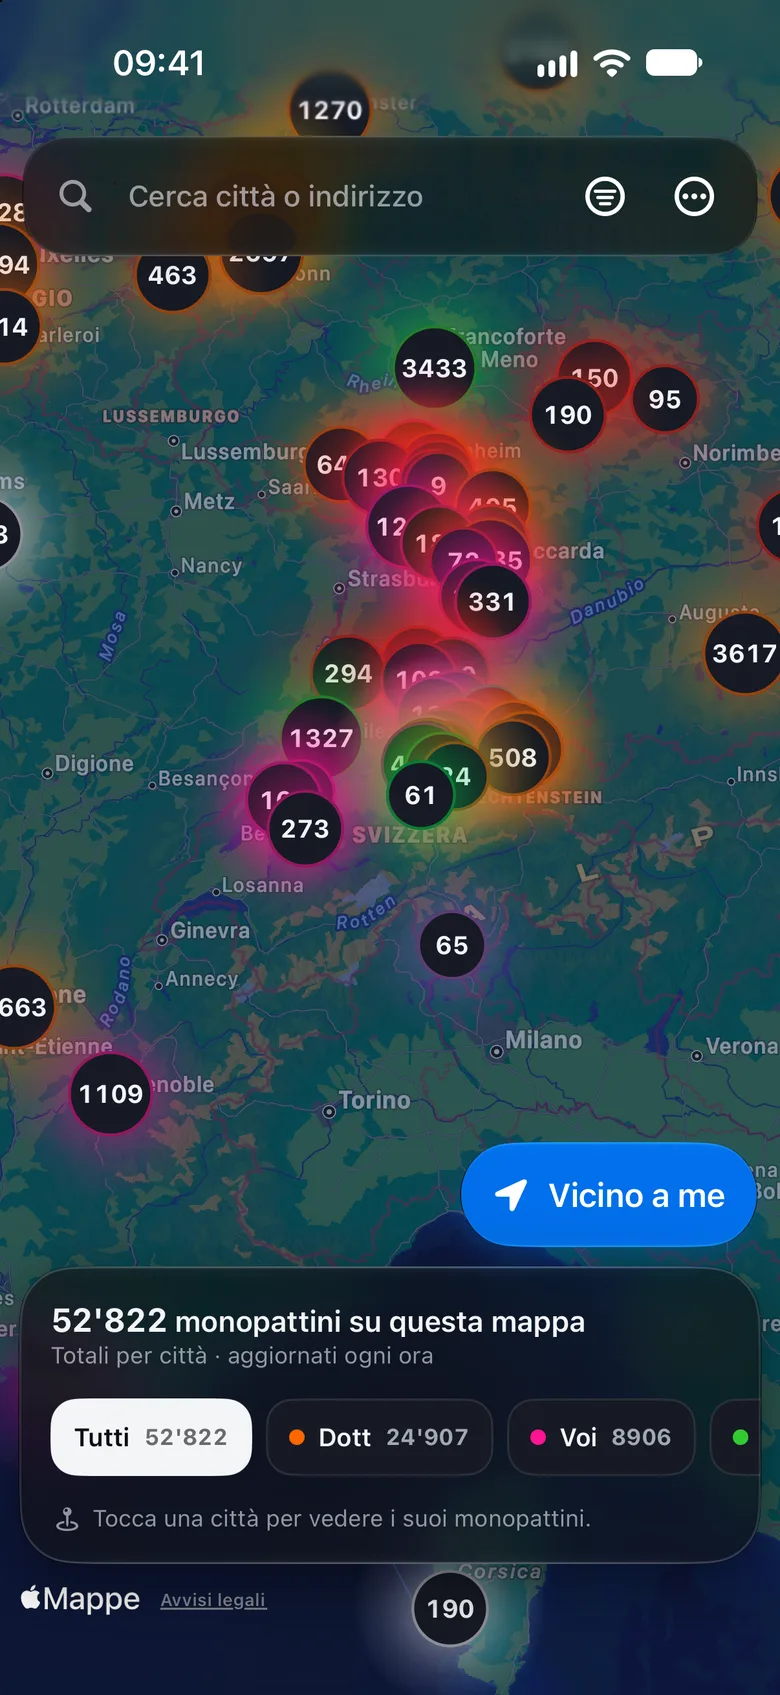
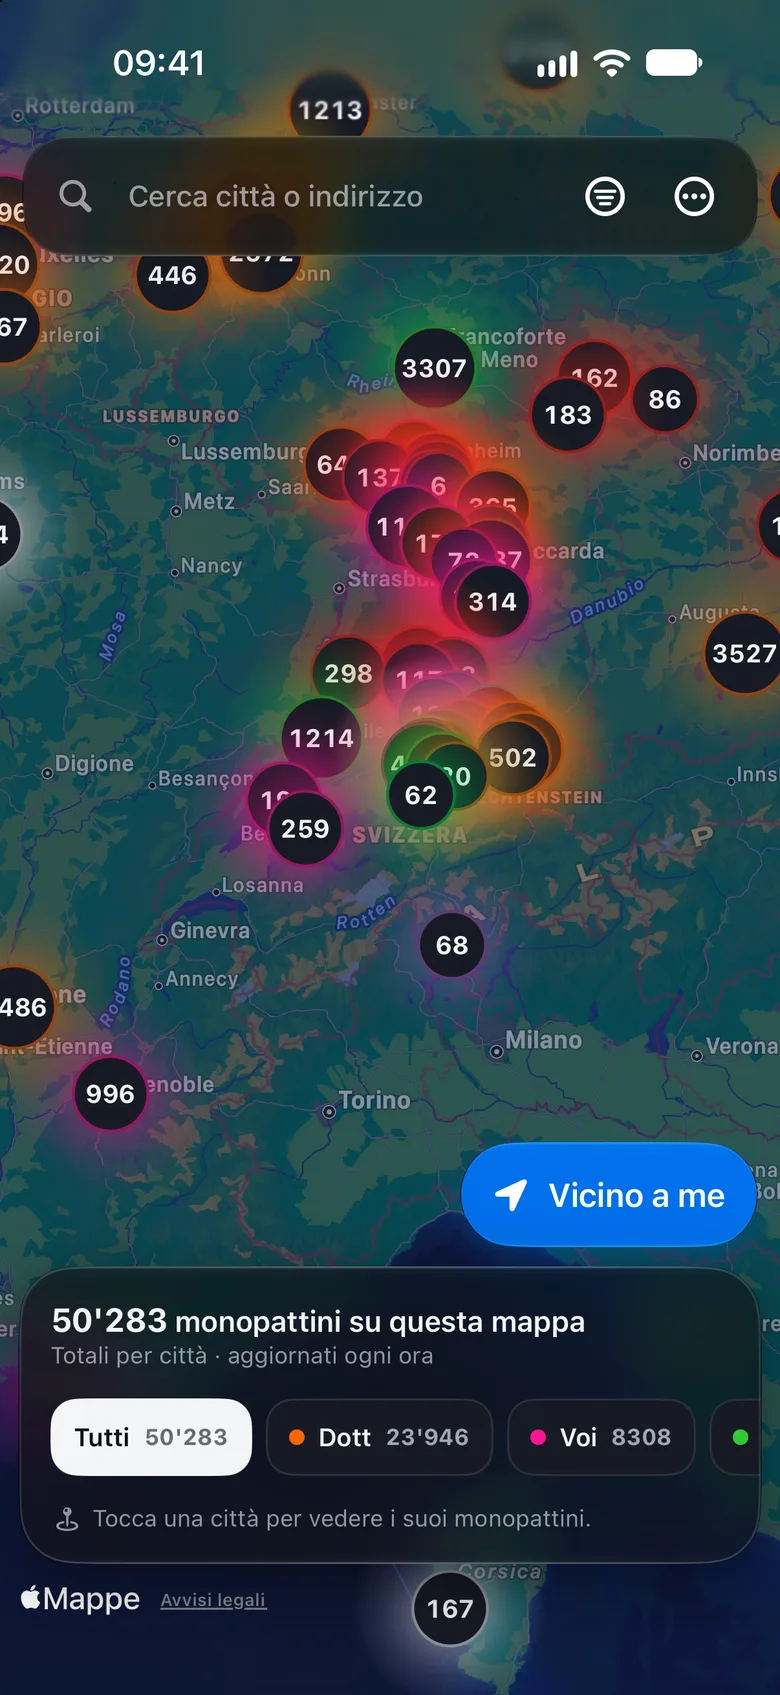
Take the landing page's pictures in Portuguese, Spanish and Icelandic too
All nine languages are captured in one run, so they show the same 103
scooters by Zürich main station, a Voi nearest at 31 m. The script now
compares the scooters themselves to tell a renewal of the data: the time it
compared was the oldest feed's, which stays put while another feed renews,
and two languages had caught one more Bird. A passing 503 is retried.

diff --git a/src/lib/landingSnapshot.ts b/src/lib/landingSnapshot.ts
@@ -32,15 +32,15 @@ const CHF = (unlock: number, minute: number): RidePricing => ({
 
 /** Nearest first. The first one is the scooter the page then follows. */
 export const LANDING_NEAREST: readonly LandingNearest[] = [
-  { provider: 'publibike', name: 'PubliBike', distanceM: 70, battery: null, rangeM: null, pricing: null, shows: ['walk', 'bike'] },
-  { provider: 'bolt', name: 'Bolt', distanceM: 92, battery: 92, rangeM: 58_800, pricing: CHF(100, 42), shows: ['battery', 'range'] },
-  { provider: 'bird', name: 'Bird', distanceM: 116, battery: 68, rangeM: 23_160, pricing: null, shows: ['battery', 'range'] },
-  { provider: 'lime', name: 'Lime', distanceM: 127, battery: null, rangeM: 3_138, pricing: null, shows: ['range'] },
-  { provider: 'hopp', name: 'Hopp', distanceM: 128, battery: 34, rangeM: 11_200, pricing: CHF(100, 40), shows: ['battery', 'price'] },
-  { provider: 'voi', name: 'Voi', distanceM: 181, battery: null, rangeM: 67_200, pricing: CHF(100, 42), shows: ['price'] },
-  { provider: 'dott', name: 'Dott', distanceM: 504, battery: 44, rangeM: 25_896, pricing: null, shows: ['battery', 'range'] },
+  { provider: 'voi', name: 'Voi', distanceM: 31, battery: null, rangeM: 67_200, pricing: CHF(100, 42), shows: ['walk', 'price'] },
+  { provider: 'lime', name: 'Lime', distanceM: 69, battery: null, rangeM: 21_581, pricing: null, shows: ['range'] },
+  { provider: 'publibike', name: 'PubliBike', distanceM: 70, battery: null, rangeM: null, pricing: null, shows: ['bike'] },
+  { provider: 'bolt', name: 'Bolt', distanceM: 77, battery: 61, rangeM: 37_100, pricing: CHF(100, 42), shows: ['battery', 'range'] },
+  { provider: 'bird', name: 'Bird', distanceM: 79, battery: 68, rangeM: 23_160, pricing: null, shows: ['battery', 'range'] },
+  { provider: 'hopp', name: 'Hopp', distanceM: 105, battery: 51, rangeM: 18_000, pricing: CHF(100, 40), shows: ['battery', 'price'] },
+  { provider: 'dott', name: 'Dott', distanceM: 142, battery: 69, rangeM: 42_496, pricing: null, shows: ['battery', 'range'] },
 ];
 
 // The scooters in view on the dark map (public/landing/*-dark.webp), which its
 // "All" chip counts in every language: the headline repeats the number beside it.
-export const LANDING_SCOOTERS_NEARBY = 61;
+export const LANDING_SCOOTERS_NEARBY = 103;

diff --git a/e2e/landing.e2e.ts b/e2e/landing.e2e.ts
@@ -47,8 +47,8 @@ for (const [locale, headline] of Object.entries(HEADLINES)) {
     // Seven providers beside the phone, the nearest first.
     const cards = page.locator('.near-card');
     await expect(cards).toHaveCount(7);
-    await expect(cards.first()).toContainText('PubliBike');
-    await expect(cards.first()).toContainText('70 m');
+    await expect(cards.first()).toContainText('Voi');
+    await expect(cards.first()).toContainText('31 m');
 
     // The pictures further down load as they come into view.
     const pictures = page.locator('main img');
